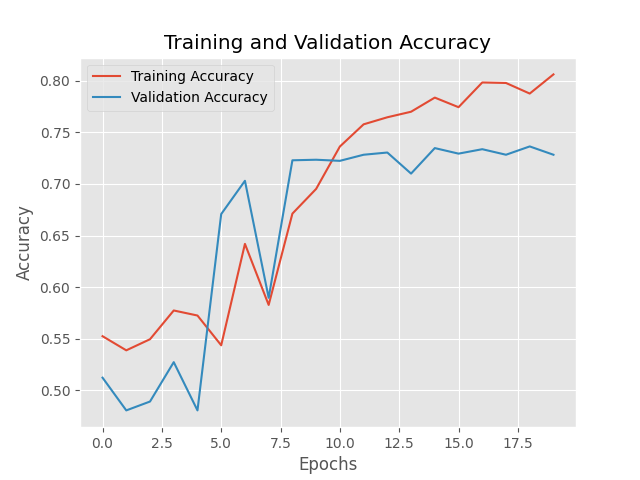
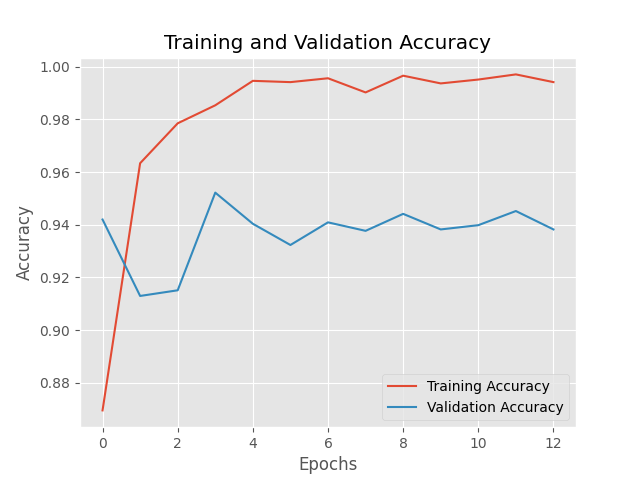
Added resnet50 - 94% acc

diff --git a/main.py b/main.py
@@ -16,21 +16,20 @@ import sys
 import dataset
 import utilities as ut
 
-from model import Network, ResNet
+from model import Network, ResNet, FinetuneResnet50
 
 
 
 def train(model, optimizer, train_loader, test_loader, device, num_epochs=50,):
     def loss_fun(output, target):
-        return F.nll_loss(output, target)
+        return F.cross_entropy(output, target)
     out_dict = {'train_acc': [],
               'test_acc': [],
               'train_loss': [],
               'test_loss': []}
-  
+    patience = 3
     for epoch in range(num_epochs):
         model.train()
-        patience = 3
         #For each epoch
         train_correct = 0
         train_loss = []
@@ -71,7 +70,7 @@ def train(model, optimizer, train_loader, test_loader, device, num_epochs=50,):
               f"Memory allocated: {torch.cuda.memory_allocated(device=device)/1e9:.1f} GB")
 
         # Early stopping 
-        if epoch > 10 and out_dict['test_acc'][-1] < out_dict['test_acc'][-2]:
+        if epoch > 5 and out_dict['test_acc'][-1] < out_dict['test_acc'][-2]:
             patience -= 1
             if patience == 0:
                 print("Early stopping")
@@ -81,10 +80,11 @@ def train(model, optimizer, train_loader, test_loader, device, num_epochs=50,):
 
 
 def main():
-    train_data, test_data = dataset.get_data(16)
+    train_data, test_data = dataset.get_data(64)
 
     device = ut.get_device()
-    model = ResNet(3,32, num_res_blocks=8)
+    # model = ResNet(3,16, num_res_blocks=8)
+    model = FinetuneResnet50(2)
     model.to(device)
     # optimizer = torch.optim.Adam(model.parameters(), lr=0.001, weight_decay=0.0001)
     optimizer = torch.optim.SGD(model.parameters(), lr=0.01, momentum=0.9)

diff --git a/model.py b/model.py
@@ -11,6 +11,7 @@ import torchvision.datasets as datasets
 from torch.utils.data import DataLoader
 import torchvision.transforms as transforms
 import matplotlib.pyplot as plt
+import torchvision.models as models
 
 
 class Network(nn.Module):
@@ -73,3 +74,33 @@ class ResNet(nn.Module):
         x = x.view(x.size(0), -1)
         out = self.fc(x)
         return out
+
+
+
+class FinetuneResnet50(nn.Module):
+    def __init__(self, num_classes):
+        super(FinetuneResnet50, self).__init__()
+
+        self.model = models.resnet50(pretrained=True)
+        self.fc1 = nn.Linear(2048, 2048)
+        self.fc2 = nn.Linear(2048, num_classes)
+        self.dropout = nn.Dropout(0.1)
+
+    def forward(self, x):
+        x = self.model.conv1(x)
+        x = self.model.bn1(x)
+        x = self.model.relu(x)
+        x = self.model.maxpool(x)
+
+        x = self.model.layer1(x)
+        x = self.model.layer2(x)
+        x = self.model.layer3(x)
+        x = self.model.layer4(x)
+        x = self.model.avgpool(x)
+
+        x = x.view(x.size(0), -1)
+        x = nn.functional.relu(self.fc1(x))
+        x = self.dropout(x)
+        x = self.fc2(x)
+
+        return x

diff --git a/dataset.py b/dataset.py
@@ -40,11 +40,12 @@ class Hotdog_NotHotdog(torch.utils.data.Dataset):
 
 
 def get_data(batch_size = 16):
-    size = 128
+    size = 256
     train_transform = transforms.Compose([transforms.RandomRotation(10),
                                         transforms.Resize((size, size)), 
                                         transforms.RandomHorizontalFlip(),
                                         transforms.ColorJitter(),
+                                        
                                         transforms.ToTensor()])
     test_transform = transforms.Compose([transforms.Resize((size, size)), 
                                         transforms.ToTensor()])
